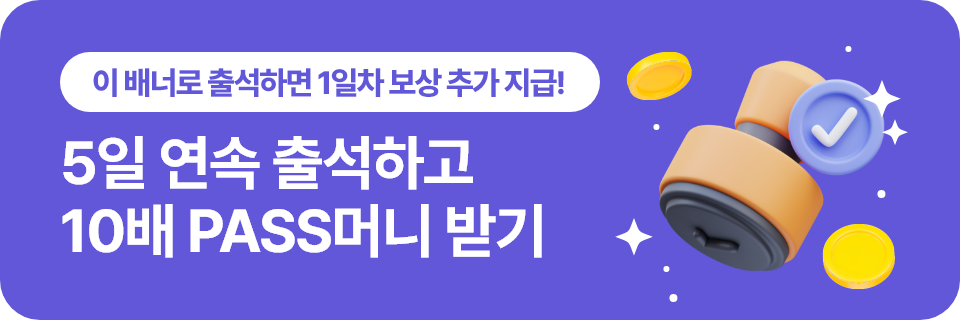
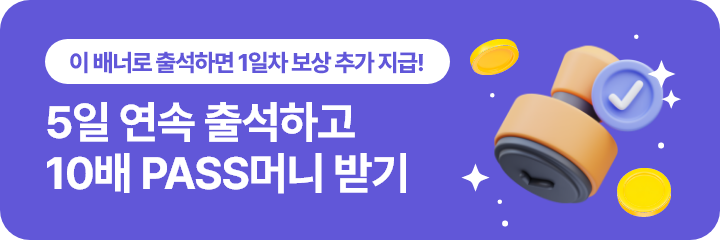
- 오타 수정 - 적용 배너 수정 - iOS 이미지 효과 삭제

diff --git a/event/ev_250826_membership_complete/html/ev_membership_250826.html b/event/ev_250826_membership_complete/html/ev_membership_250826.html
@@ -157,6 +157,8 @@
 		/* iOS 위치 수정 */
 		@supports (-webkit-touch-callout: none) {
 			.btn_giftshop span.txt {position:relative; top:0.05em;}
+			.result_product .product_item.active .flip-box-inner {animation:none;}
+			.flip-box .flip-box-inner {transform:scale(1); opacity:1;}
 		}
 	</style>
 </head>
@@ -194,19 +196,19 @@
 						<div class="result_txt_item">
 							<p class="txt">
 								<em>세븐일레븐</em>
-								<strong>e카드교환권 5천원권</strong>
+								<strong>금액상품권 5천원권</strong>
 							</p>
 						</div>
 						<div class="result_txt_item">
 							<p class="txt">
 								<em>이마트24</em>
-								<strong>e카드교환권 5천원권</strong>
+								<strong>상품권 5천원권</strong>
 							</p>
 						</div>
 						<div class="result_txt_item">
 							<p class="txt">
 								<em>GS25(편의점)</em>
-								<strong>e카드교환권 5천원권</strong>
+								<strong>상품권 5천원권</strong>
 							</p>
 						</div>
 						
@@ -247,10 +249,10 @@
 							<div class="flip-box flip_item">
 								<div class="flip-box-inner">
 									<div class="flip-box-front">
-										<div class="img"><img src="../images/img_gift_711.png" alt="세븐일레븐 e카드교환권 5,000원" /></div>
+										<div class="img"><img src="../images/img_gift_711.png" alt="세븐일레븐 금액상품권 5,000원" /></div>
 									</div>
 									<div class="flip-box-back">
-										<div class="img"><img src="../images/img_gift_711.png" alt="세븐일레븐 e카드교환권 5,000원" /></div>
+										<div class="img"><img src="../images/img_gift_711.png" alt="세븐일레븐 금액상품권 5,000원" /></div>
 									</div>
 								</div>
 							</div>
@@ -262,10 +264,10 @@
 							<div class="flip-box flip_item">
 								<div class="flip-box-inner">
 									<div class="flip-box-front">
-										<div class="img"><img src="../images/img_gift_emart24.png" alt="이마트24 e카드교환권 5,000원" /></div>
+										<div class="img"><img src="../images/img_gift_emart24.png" alt="이마트24 상품권 5,000원" /></div>
 									</div>
 									<div class="flip-box-back">
-										<div class="img"><img src="../images/img_gift_emart24.png" alt="이마트24 e카드교환권 5,000원" /></div>
+										<div class="img"><img src="../images/img_gift_emart24.png" alt="이마트24 상품권 5,000원" /></div>
 									</div>
 								</div>
 							</div>
@@ -277,10 +279,10 @@
 							<div class="flip-box flip_item">
 								<div class="flip-box-inner">
 									<div class="flip-box-front">
-										<div class="img"><img src="../images/img_gift_gs25.png" alt="GS25(편의점) e카드교환권 5,000원" /></div>
+										<div class="img"><img src="../images/img_gift_gs25.png" alt="GS25(편의점) 상품권 5,000원" /></div>
 									</div>
 									<div class="flip-box-back">
-										<div class="img"><img src="../images/img_gift_gs25.png" alt="GS25(편의점) e카드교환권 5,000원" /></div>
+										<div class="img"><img src="../images/img_gift_gs25.png" alt="GS25(편의점) 상품권 5,000원" /></div>
 									</div>
 								</div>
 							</div>

diff --git a/event/ev_250826_membership_complete/html/ev_membership_250826_2.html b/event/ev_250826_membership_complete/html/ev_membership_250826_2.html
@@ -157,6 +157,8 @@
 		/* iOS 위치 수정 */
 		@supports (-webkit-touch-callout: none) {
 			.btn_giftshop span.txt {position:relative; top:0.05em;}
+			.result_product .product_item.active .flip-box-inner {animation:none;}
+			.flip-box .flip-box-inner {transform:scale(1); opacity:1;}
 		}
 	</style>
 </head>
@@ -186,7 +188,7 @@
 						<div class="result_txt_item">
 							<p class="txt">
 								<em>세븐일레븐</em>
-								<strong>e카드교환권 5천원권</strong>
+								<strong>금액상품권 5천원권</strong>
 							</p>
 						</div>
 					</div>
@@ -251,7 +253,7 @@
 					</p>
 				</div>
 				<ul>
-					<li><button type="button"><img src="../images/img_banner_checkin1.png" alt="5일 연속 출석하고 10배 PASS머니 받기" /></button></li>
+					<li><button type="button"><img src="../images/img_banner_checkin2.png" alt="5일 연속 출석하고 10배 PASS머니 받기" /></button></li>
 				</ul>
 			</div>
 			<!-- // event_list -->

diff --git a/event/ev_250826_membership_complete/html/ev_membership_250826_4.html b/event/ev_250826_membership_complete/html/ev_membership_250826_4.html
@@ -157,6 +157,8 @@
 		/* iOS 위치 수정 */
 		@supports (-webkit-touch-callout: none) {
 			.btn_giftshop span.txt {position:relative; top:0.05em;}
+			.result_product .product_item.active .flip-box-inner {animation:none;}
+			.flip-box .flip-box-inner {transform:scale(1); opacity:1;}
 		}
 	</style>
 </head>
@@ -186,7 +188,7 @@
 						<div class="result_txt_item">
 							<p class="txt">
 								<em>GS25(편의점)</em>
-								<strong>e카드교환권 5천원권</strong>
+								<strong>상품권 5천원권</strong>
 							</p>
 						</div>
 					</div>
@@ -251,7 +253,7 @@
 					</p>
 				</div>
 				<ul>
-					<li><button type="button"><img src="../images/img_banner_checkin1.png" alt="5일 연속 출석하고 10배 PASS머니 받기" /></button></li>
+					<li><button type="button"><img src="../images/img_banner_checkin2.png" alt="5일 연속 출석하고 10배 PASS머니 받기" /></button></li>
 				</ul>
 			</div>
 			<!-- // event_list -->

diff --git a/event/ev_250826_membership_complete/html/ev_membership_250826_3.html b/event/ev_250826_membership_complete/html/ev_membership_250826_3.html
@@ -157,6 +157,8 @@
 		/* iOS 위치 수정 */
 		@supports (-webkit-touch-callout: none) {
 			.btn_giftshop span.txt {position:relative; top:0.05em;}
+			.result_product .product_item.active .flip-box-inner {animation:none;}
+			.flip-box .flip-box-inner {transform:scale(1); opacity:1;}
 		}
 	</style>
 </head>
@@ -186,7 +188,7 @@
 						<div class="result_txt_item">
 							<p class="txt">
 								<em>이마트24</em>
-								<strong>e카드교환권 5천원권</strong>
+								<strong>상품권 5천원권</strong>
 							</p>
 						</div>
 					</div>
@@ -251,7 +253,7 @@
 					</p>
 				</div>
 				<ul>
-					<li><button type="button"><img src="../images/img_banner_checkin1.png" alt="5일 연속 출석하고 10배 PASS머니 받기" /></button></li>
+					<li><button type="button"><img src="../images/img_banner_checkin2.png" alt="5일 연속 출석하고 10배 PASS머니 받기" /></button></li>
 				</ul>
 			</div>
 			<!-- // event_list -->

diff --git a/event/ev_250826_membership_complete/html/ev_membership_250826_5.html b/event/ev_250826_membership_complete/html/ev_membership_250826_5.html
@@ -157,6 +157,8 @@
 		/* iOS 위치 수정 */
 		@supports (-webkit-touch-callout: none) {
 			.btn_giftshop span.txt {position:relative; top:0.05em;}
+			.result_product .product_item.active .flip-box-inner {animation:none;}
+			.flip-box .flip-box-inner {transform:scale(1); opacity:1;}
 		}
 	</style>
 </head>
@@ -202,7 +204,7 @@
 					</p>
 				</div>
 				<ul>
-					<li><button type="button"><img src="../images/img_banner_checkin1.png" alt="5일 연속 출석하고 10배 PASS머니 받기" /></button></li>
+					<li><button type="button"><img src="../images/img_banner_checkin1.png" alt="이 배너로 출석하면 1일차 보상 추가 지급! 5일 연속 출석하고 10배 PASS머니 받기" /></button></li>
 				</ul>
 			</div>
 			<!-- // event_list -->

diff --git a/event/ev_250826_passpay_complete/html/ev_review_250826_3.html b/event/ev_250826_passpay_complete/html/ev_review_250826_3.html
@@ -157,6 +157,8 @@
 		/* iOS 위치 수정 */
 		@supports (-webkit-touch-callout: none) {
 			.btn_giftshop span.txt {position:relative; top:0.05em;}
+			.result_product .product_item.active .flip-box-inner {animation:none;}
+			.flip-box .flip-box-inner {transform:scale(1); opacity:1;}
 		}
 	</style>
 </head>
@@ -202,7 +204,7 @@
 					</p>
 				</div>
 				<ul>
-					<li><button type="button"><img src="../images/img_banner_checkin1.png" alt="5일 연속 출석하고 10배 PASS머니 받기" /></button></li>
+					<li><button type="button"><img src="../images/img_banner_checkin1.png" alt="이 배너로 출석하면 1일차 보상 추가 지급! 5일 연속 출석하고 10배 PASS머니 받기" /></button></li>
 				</ul>
 			</div>
 			<!-- // event_list -->

diff --git a/event/ev_250826_membership_complete/html/ev_membership_250826_1.html b/event/ev_250826_membership_complete/html/ev_membership_250826_1.html
@@ -157,6 +157,8 @@
 		/* iOS 위치 수정 */
 		@supports (-webkit-touch-callout: none) {
 			.btn_giftshop span.txt {position:relative; top:0.05em;}
+			.result_product .product_item.active .flip-box-inner {animation:none;}
+			.flip-box .flip-box-inner {transform:scale(1); opacity:1;}
 		}
 	</style>
 </head>
@@ -251,7 +253,7 @@
 					</p>
 				</div>
 				<ul>
-					<li><button type="button"><img src="../images/img_banner_checkin1.png" alt="5일 연속 출석하고 10배 PASS머니 받기" /></button></li>
+					<li><button type="button"><img src="../images/img_banner_checkin2.png" alt="5일 연속 출석하고 10배 PASS머니 받기" /></button></li>
 				</ul>
 			</div>
 			<!-- // event_list -->

diff --git a/event/ev_250826_membership_complete/html/ev_membership_250826_6.html b/event/ev_250826_membership_complete/html/ev_membership_250826_6.html
@@ -157,6 +157,8 @@
 		/* iOS 위치 수정 */
 		@supports (-webkit-touch-callout: none) {
 			.btn_giftshop span.txt {position:relative; top:0.05em;}
+			.result_product .product_item.active .flip-box-inner {animation:none;}
+			.flip-box .flip-box-inner {transform:scale(1); opacity:1;}
 		}
 	</style>
 </head>
@@ -202,7 +204,7 @@
 					</p>
 				</div>
 				<ul>
-					<li><button type="button"><img src="../images/img_banner_checkin1.png" alt="5일 연속 출석하고 10배 PASS머니 받기" /></button></li>
+					<li><button type="button"><img src="../images/img_banner_checkin2.png" alt="5일 연속 출석하고 10배 PASS머니 받기" /></button></li>
 				</ul>
 			</div>
 			<!-- // event_list -->

diff --git a/event/ev_250826_passpay_complete/html/ev_review_250826_4.html b/event/ev_250826_passpay_complete/html/ev_review_250826_4.html
@@ -157,6 +157,8 @@
 		/* iOS 위치 수정 */
 		@supports (-webkit-touch-callout: none) {
 			.btn_giftshop span.txt {position:relative; top:0.05em;}
+			.result_product .product_item.active .flip-box-inner {animation:none;}
+			.flip-box .flip-box-inner {transform:scale(1); opacity:1;}
 		}
 	</style>
 </head>
@@ -202,7 +204,7 @@
 					</p>
 				</div>
 				<ul>
-					<li><button type="button"><img src="../images/img_banner_checkin1.png" alt="5일 연속 출석하고 10배 PASS머니 받기" /></button></li>
+					<li><button type="button"><img src="../images/img_banner_checkin2.png" alt="5일 연속 출석하고 10배 PASS머니 받기" /></button></li>
 				</ul>
 			</div>
 			<!-- // event_list -->

diff --git a/event/ev_250826_passpay_complete/html/ev_review_250826.html b/event/ev_250826_passpay_complete/html/ev_review_250826.html
@@ -157,6 +157,8 @@
 		/* iOS 위치 수정 */
 		@supports (-webkit-touch-callout: none) {
 			.btn_giftshop span.txt {position:relative; top:0.05em;}
+			.result_product .product_item.active .flip-box-inner {animation:none;}
+			.flip-box .flip-box-inner {transform:scale(1); opacity:1;}
 		}
 	</style>
 </head>

diff --git a/event/ev_250826_passpay_complete/html/ev_review_250826_1.html b/event/ev_250826_passpay_complete/html/ev_review_250826_1.html
@@ -157,6 +157,8 @@
 		/* iOS 위치 수정 */
 		@supports (-webkit-touch-callout: none) {
 			.btn_giftshop span.txt {position:relative; top:0.05em;}
+			.result_product .product_item.active .flip-box-inner {animation:none;}
+			.flip-box .flip-box-inner {transform:scale(1); opacity:1;}
 		}
 	</style>
 </head>

diff --git a/event/ev_250826_passpay_complete/html/ev_review_250826_2.html b/event/ev_250826_passpay_complete/html/ev_review_250826_2.html
@@ -157,6 +157,8 @@
 		/* iOS 위치 수정 */
 		@supports (-webkit-touch-callout: none) {
 			.btn_giftshop span.txt {position:relative; top:0.05em;}
+			.result_product .product_item.active .flip-box-inner {animation:none;}
+			.flip-box .flip-box-inner {transform:scale(1); opacity:1;}
 		}
 	</style>
 </head>
